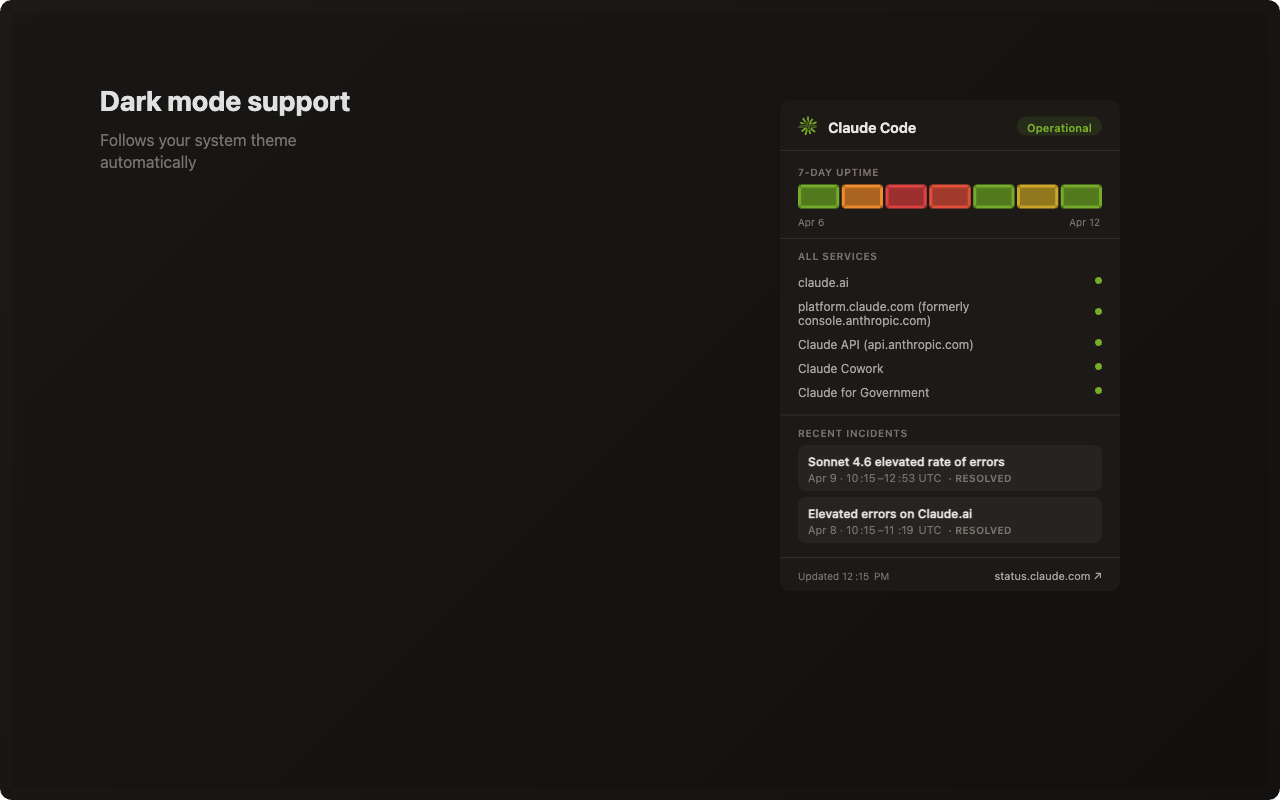
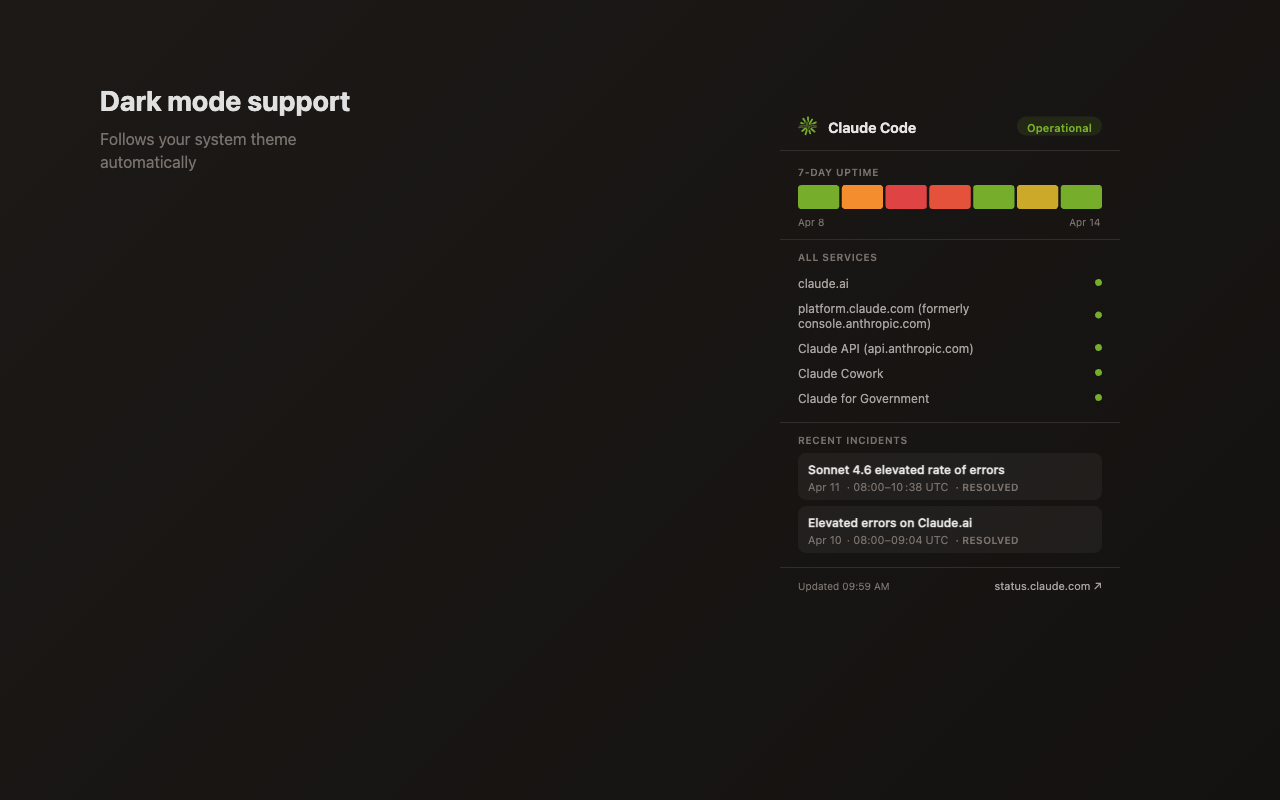
fix: screenshot html2canvas rendering, reduce incident name weight
Fix html2canvas artifacts in store screenshots: remove border-radius
+ overflow:hidden combo, use explicit rgba in gradients, strip inset
box-shadow from status bars. Redesign promo tile with popup preview.
Reduce incident name font-weight from 550 to 500.

diff --git a/store-assets/screenshots.html b/store-assets/screenshots.html
@@ -22,13 +22,10 @@
   .screenshot {
     width: 1280px;
     height: 800px;
-    border-radius: 12px;
-    overflow: hidden;
     position: relative;
     display: flex;
     align-items: center;
     justify-content: center;
-    box-shadow: 0 4px 24px rgba(0,0,0,0.1);
   }
 
   /* Container for the live popup — loads real popup.css scoped inside */
@@ -37,9 +34,6 @@
     right: 160px;
     top: 100px;
     width: 340px;
-    border-radius: 10px;
-    overflow: hidden;
-    box-shadow: 0 8px 32px rgba(0,0,0,0.12);
   }
 
   /* Callout labels beside the popup */
@@ -84,9 +78,15 @@
   }
 
   /* Disable animations for clean screenshots */
-  .popup-frame *, .popup-frame *::before, .popup-frame *::after {
+  .popup-frame *, .popup-frame *::before, .popup-frame *::after,
+  #popup-promo *, #popup-promo *::before, #popup-promo *::after {
     animation: none !important;
     transition: none !important;
+  }
+
+  /* html2canvas renders inset box-shadow as hard dark borders */
+  .screenshot .status-bar-day {
+    box-shadow: none !important;
   }
 </style>
 </head>
@@ -135,12 +135,10 @@
 <p class="note">Required for Chrome Web Store listing</p>
 
 <div class="screenshot" id="promo-tile" style="width: 440px; height: 280px; background: linear-gradient(135deg, #FAF9F7 0%, #F0EDE8 100%);">
-  <div style="display:flex;align-items:center;gap:28px;">
-    <div id="promo-spark" style="flex-shrink:0;"></div>
-    <div>
-      <div style="font-size:18px;font-weight:700;color:#1C1917;margin-bottom:6px;">Status Monitor for Claude Code</div>
-      <div style="font-size:12px;color:#78716C;line-height:1.5;">Live status, 7-day uptime history,<br>and incident alerts in your toolbar</div>
-    </div>
+  <div id="promo-spark" style="position:absolute;left:32px;top:50%;transform:translateY(-50%);"></div>
+  <div style="position:absolute;left:112px;top:20px;right:12px;bottom:0;overflow:hidden;">
+    <div id="popup-promo" style="width:340px;transform:scale(0.93);transform-origin:top left;"></div>
+    <div style="position:absolute;bottom:0;left:0;right:0;height:48px;background:linear-gradient(to bottom,rgba(240,237,232,0),#F0EDE8);pointer-events:none;"></div>
   </div>
 </div>
 
@@ -233,33 +231,32 @@ function sparkSVG(size, color, strokeWidth, bgColor) {
 }
 
 // --- Render popup into a container using real popup.css classes ---
-function renderPopup(container, isDark) {
-  // Build the same DOM structure as popup.html
+function renderPopup(container, isDark, prefix) {
+  if (!prefix) prefix = isDark ? 'dark' : 'light';
   container.innerHTML = `
     <div style="background:var(--bg);color:var(--text);width:340px;font-family:-apple-system,BlinkMacSystemFont,'Segoe UI',system-ui,sans-serif;font-size:13px;-webkit-font-smoothing:antialiased;">
       <div class="header">
-        <svg class="header-icon" width="20" height="20" viewBox="0 0 28 28" id="${isDark ? 'spark-dark' : 'spark-light'}"></svg>
+        <svg class="header-icon" width="20" height="20" viewBox="0 0 28 28" id="spark-${prefix}"></svg>
         <span class="header-title">Claude Code</span>
-        <span class="header-status" id="${isDark ? 'status-dark' : 'status-light'}"></span>
+        <span class="header-status" id="status-${prefix}"></span>
       </div>
       <div class="status-bar-section">
         <div class="section-label">7-day uptime</div>
-        <div class="status-bar" id="${isDark ? 'bar-dark' : 'bar-light'}"></div>
+        <div class="status-bar" id="bar-${prefix}"></div>
         <div class="status-bar-labels">
-          <span class="status-bar-label" id="${isDark ? 'lbl-start-dark' : 'lbl-start-light'}"></span>
-          <span class="status-bar-label" id="${isDark ? 'lbl-end-dark' : 'lbl-end-light'}"></span>
+          <span class="status-bar-label" id="lbl-start-${prefix}"></span>
+          <span class="status-bar-label" id="lbl-end-${prefix}"></span>
         </div>
       </div>
-      <div class="services-section" id="${isDark ? 'svc-dark' : 'svc-light'}"></div>
-      <div class="incidents-section" id="${isDark ? 'inc-dark' : 'inc-light'}"></div>
+      <div class="services-section" id="svc-${prefix}"></div>
+      <div class="incidents-section" id="inc-${prefix}"></div>
       <div class="footer">
-        <span class="footer-updated" id="${isDark ? 'upd-dark' : 'upd-light'}"></span>
+        <span class="footer-updated" id="upd-${prefix}"></span>
         <a href="#">status.claude.com &#8599;</a>
       </div>
     </div>
   `;
 
-  const prefix = isDark ? 'dark' : 'light';
   const data = MOCK_DATA;
 
   // Header spark + status pill
@@ -286,7 +283,6 @@ function renderPopup(container, isDark) {
     const el = document.createElement('div');
     el.className = 'status-bar-day';
     el.style.backgroundColor = day.barColor;
-    el.style.boxShadow = 'var(--bar-depth)';
     barEl.appendChild(el);
   });
 
@@ -356,12 +352,21 @@ function renderIconStates() {
 
 // --- Render promo tile ---
 function renderPromoTile() {
-  document.getElementById('promo-spark').innerHTML = sparkSVG(56, '#76AD2A', 2.4, '#FAF9F7');
+  document.getElementById('promo-spark').innerHTML = sparkSVG(64, '#76AD2A', 2.4, '#FAF9F7');
+  const promoEl = document.getElementById('popup-promo');
+  renderPopup(promoEl, false, 'promo');
+  promoEl.firstElementChild.style.background = 'transparent';
 }
 
 // --- Init ---
-renderPopup(document.getElementById('popup-light'), false);
-renderPopup(document.getElementById('popup-dark'), true);
+const lightEl = document.getElementById('popup-light');
+renderPopup(lightEl, false);
+lightEl.firstElementChild.style.background = 'transparent';
+
+const darkEl = document.getElementById('popup-dark');
+renderPopup(darkEl, true);
+darkEl.firstElementChild.style.background = 'transparent';
+
 renderIconStates();
 renderPromoTile();
 

diff --git a/popup.css b/popup.css
@@ -312,7 +312,7 @@ body {
 
 .incident-name {
   font-size: 12px;
-  font-weight: 550;
+  font-weight: 500;
 }
 
 .incident-meta {
